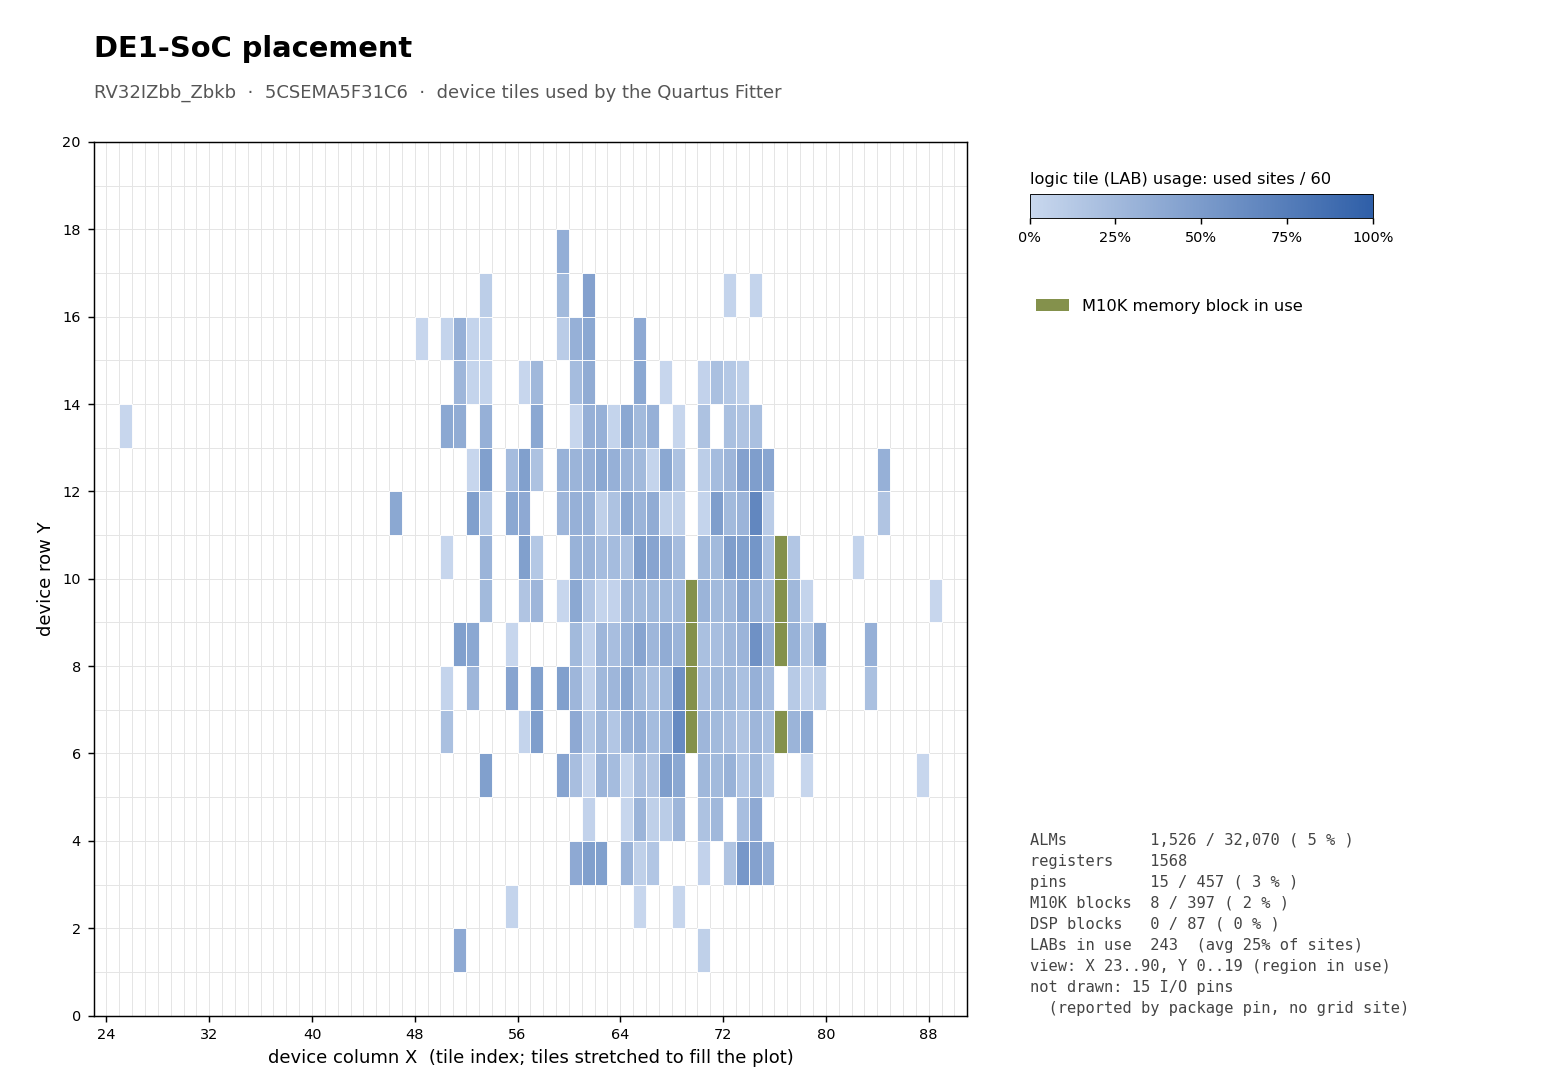
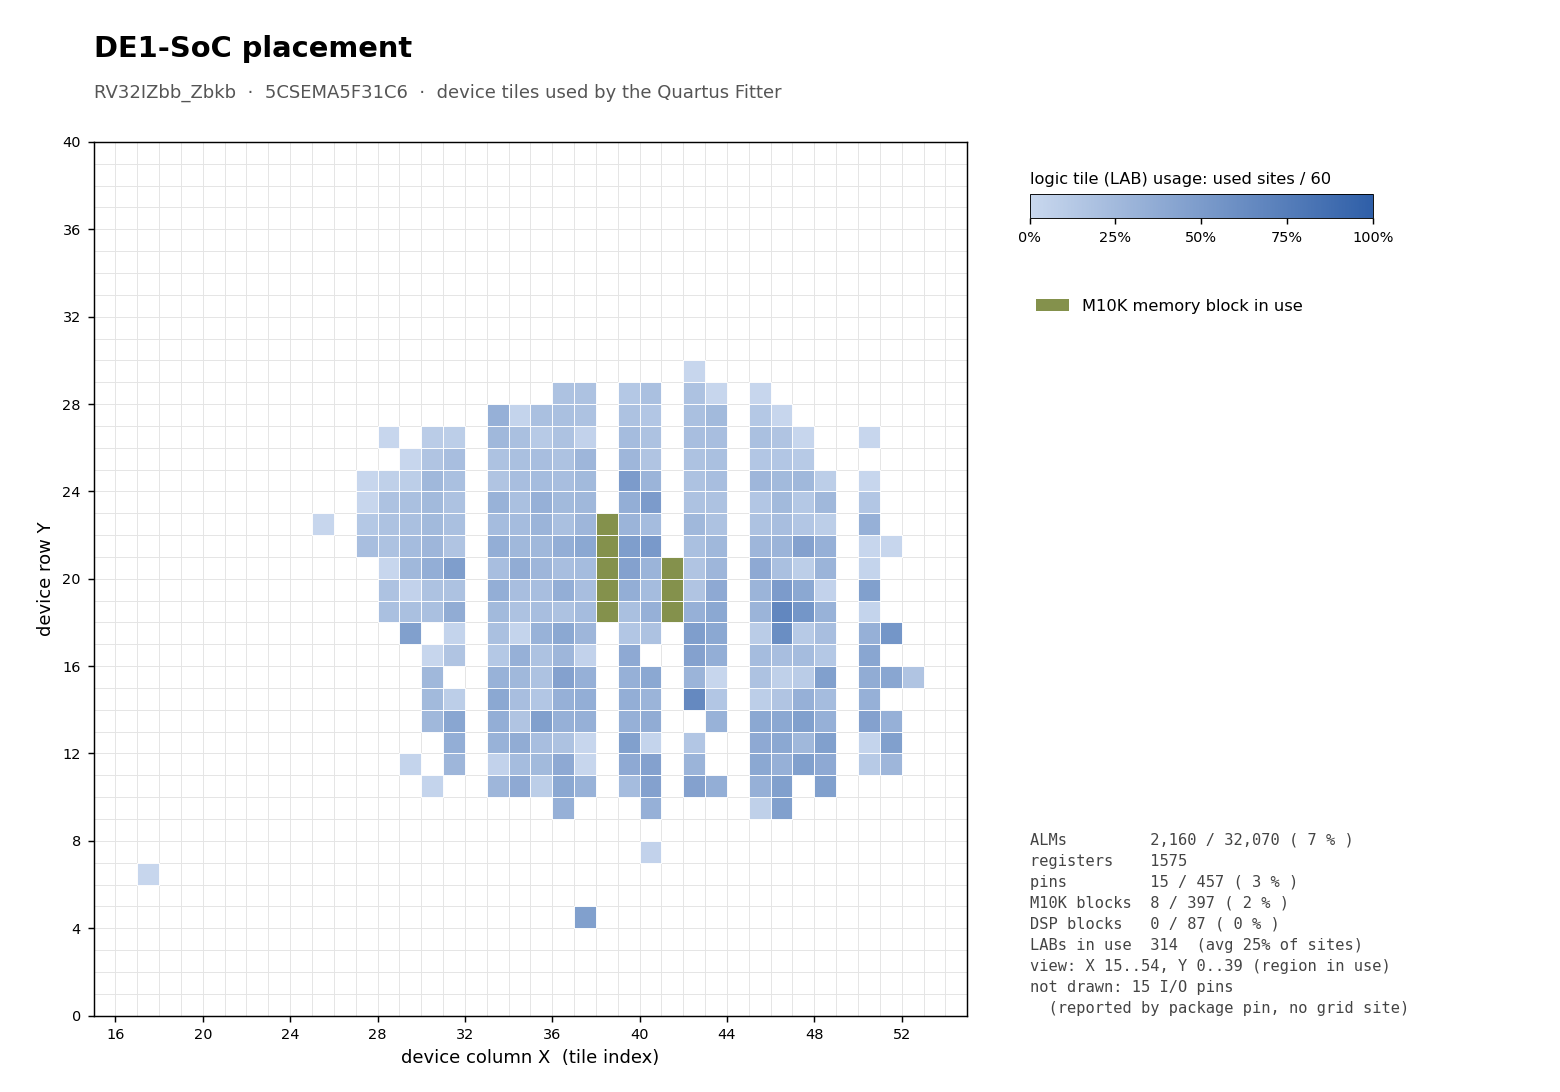
enable zicsr and zbb_zbkb configs for synth with de1-soc

Changed region(s): [[0.0615, 0.1245, 0.6154, 0.9963], [0.7385, 0.8407, 0.7692, 0.8718], [0.7385, 0.7473, 0.7692, 0.7784]]

diff --git a/envs/de1-soc/quartus/scripts/plot_placement.py b/envs/de1-soc/quartus/scripts/plot_placement.py
@@ -86,6 +86,13 @@ def square(x, y):
     return ((x, y), (x + 1, y), (x + 1, y + 1), (x, y + 1))
 
 
+def _fit_span(lo, hi, span):
+    lo -= (span - (hi - lo)) // 2
+    if lo < 0:
+        lo = 0
+    return lo, lo + span
+
+
 def fig_placement(lab, m10k, unplaced, summary, out, config):
     tiles = set(lab) | m10k
     xs = [x for x, _ in tiles]
@@ -93,6 +100,11 @@ def fig_placement(lab, m10k, unplaced, summary, out, config):
     pad = 2
     x0, x1 = max(0, min(xs) - pad), max(xs) + pad + 1
     y0, y1 = max(0, min(ys) - pad), max(ys) + pad + 1
+    # make the view a square window (1:1 map of tiles): grow the shorter axis around its center,
+    # shifting right/up instead of going below tile 0
+    span = max(x1 - x0, y1 - y0)
+    x0, x1 = _fit_span(x0, x1, span)
+    y0, y1 = _fit_span(y0, y1, span)
 
     fig = plt.figure(figsize=FIG_SIZE, dpi=DPI)
     ax = fig.add_axes([0.06, 0.07, 0.56, 0.80], anchor="NW")
@@ -129,7 +141,8 @@ def fig_placement(lab, m10k, unplaced, summary, out, config):
 
     ax.set_xlim(x0, x1)
     ax.set_ylim(y0, y1)
-    ax.set_xlabel("device column X  (tile index; tiles stretched to fill the plot)")
+    ax.set_aspect("equal", adjustable="box", anchor="NW")
+    ax.set_xlabel("device column X  (tile index)")
     ax.set_ylabel("device row Y")
     ax.xaxis.set_major_locator(MaxNLocator(integer=True))
     ax.yaxis.set_major_locator(MaxNLocator(integer=True))
